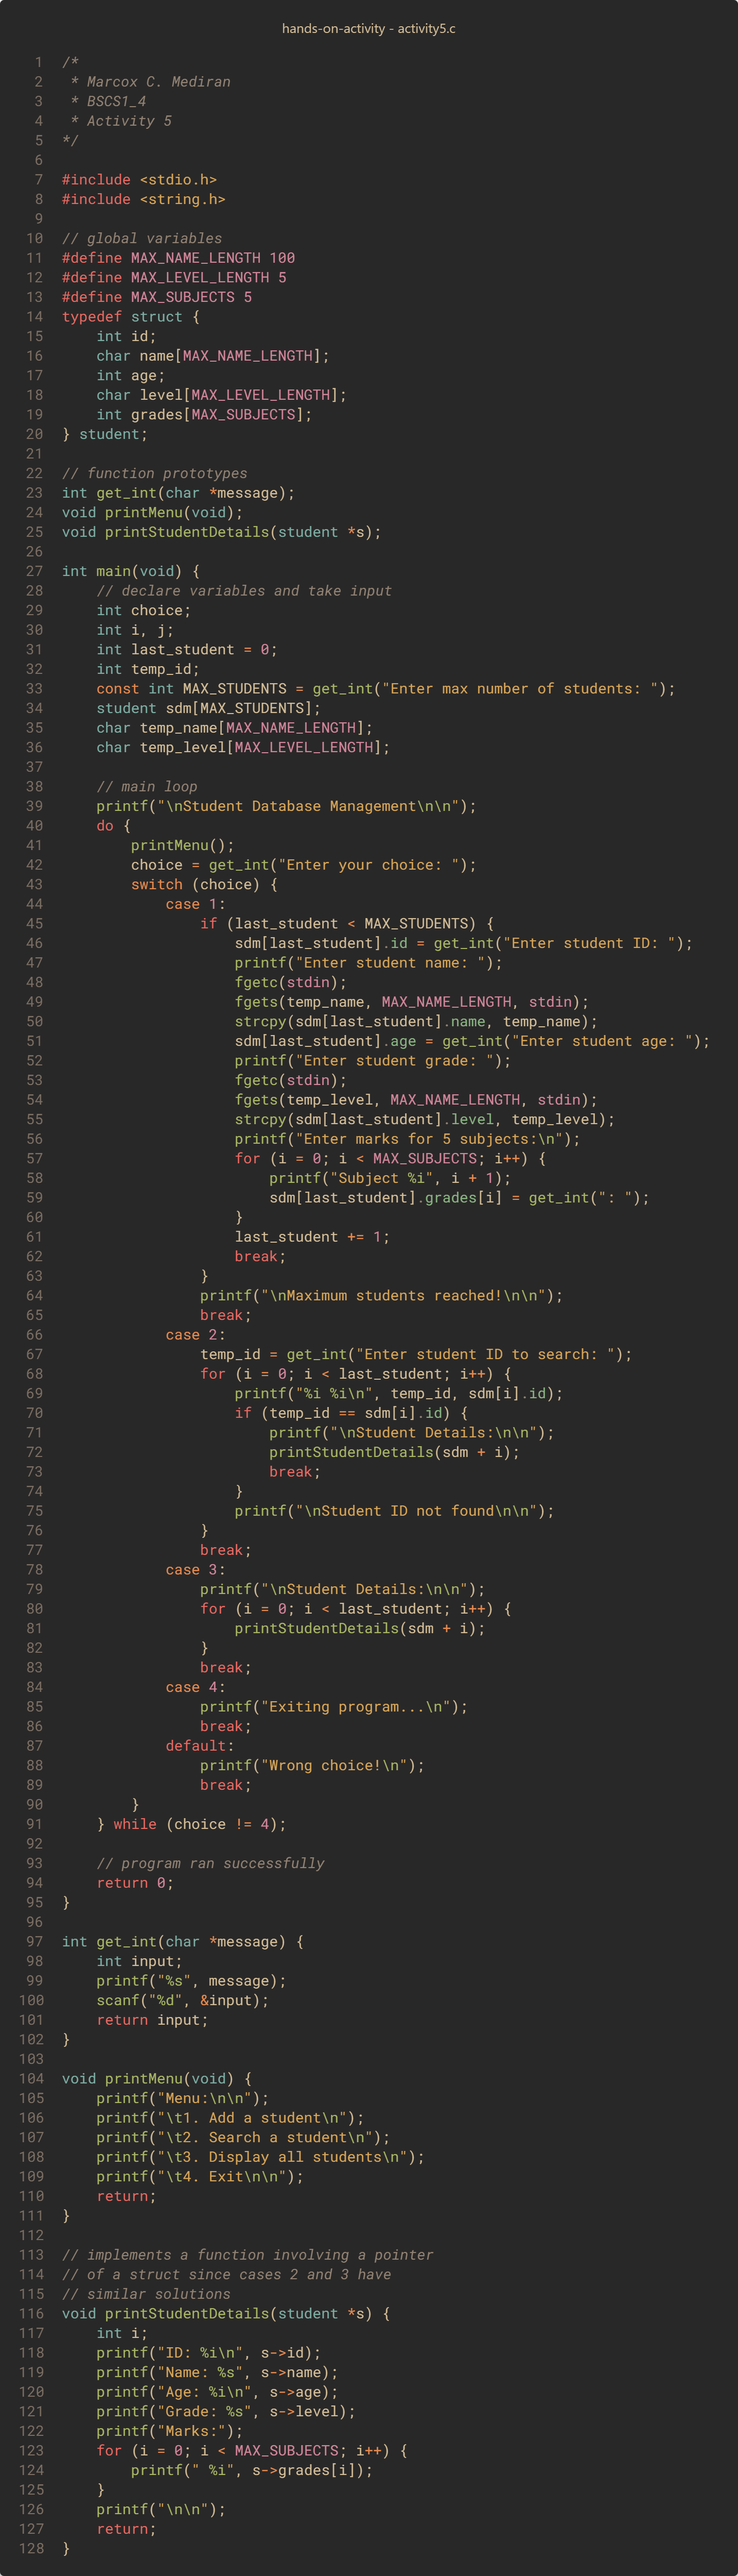
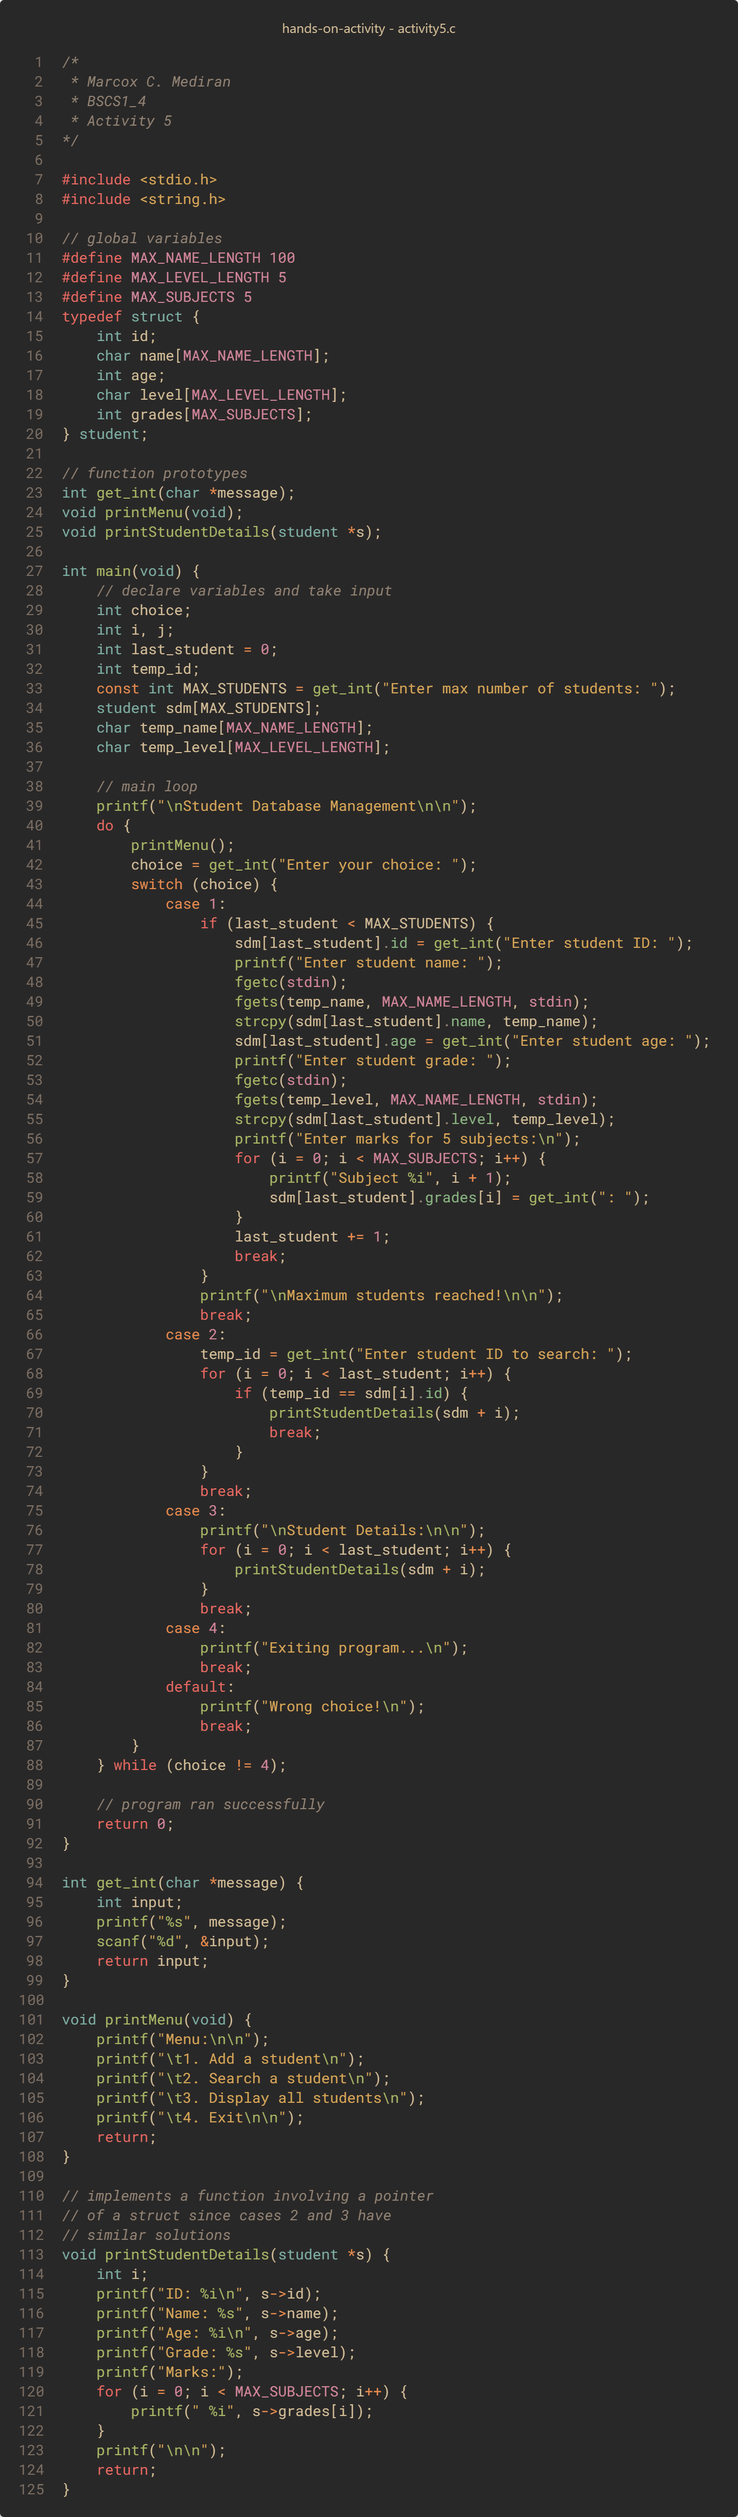
fixed bug in activity5

diff --git a/comprog/1-2/structs/hands-on-activity/activity5.c b/comprog/1-2/structs/hands-on-activity/activity5.c
@@ -66,13 +66,10 @@ int main(void) {
             case 2:
                 temp_id = get_int("Enter student ID to search: ");
                 for (i = 0; i < last_student; i++) {
-                    printf("%i %i\n", temp_id, sdm[i].id);
                     if (temp_id == sdm[i].id) {
-                        printf("\nStudent Details:\n\n");
                         printStudentDetails(sdm + i);
                         break;
                     }
-                    printf("\nStudent ID not found\n\n");
                 }
                 break;
             case 3:
